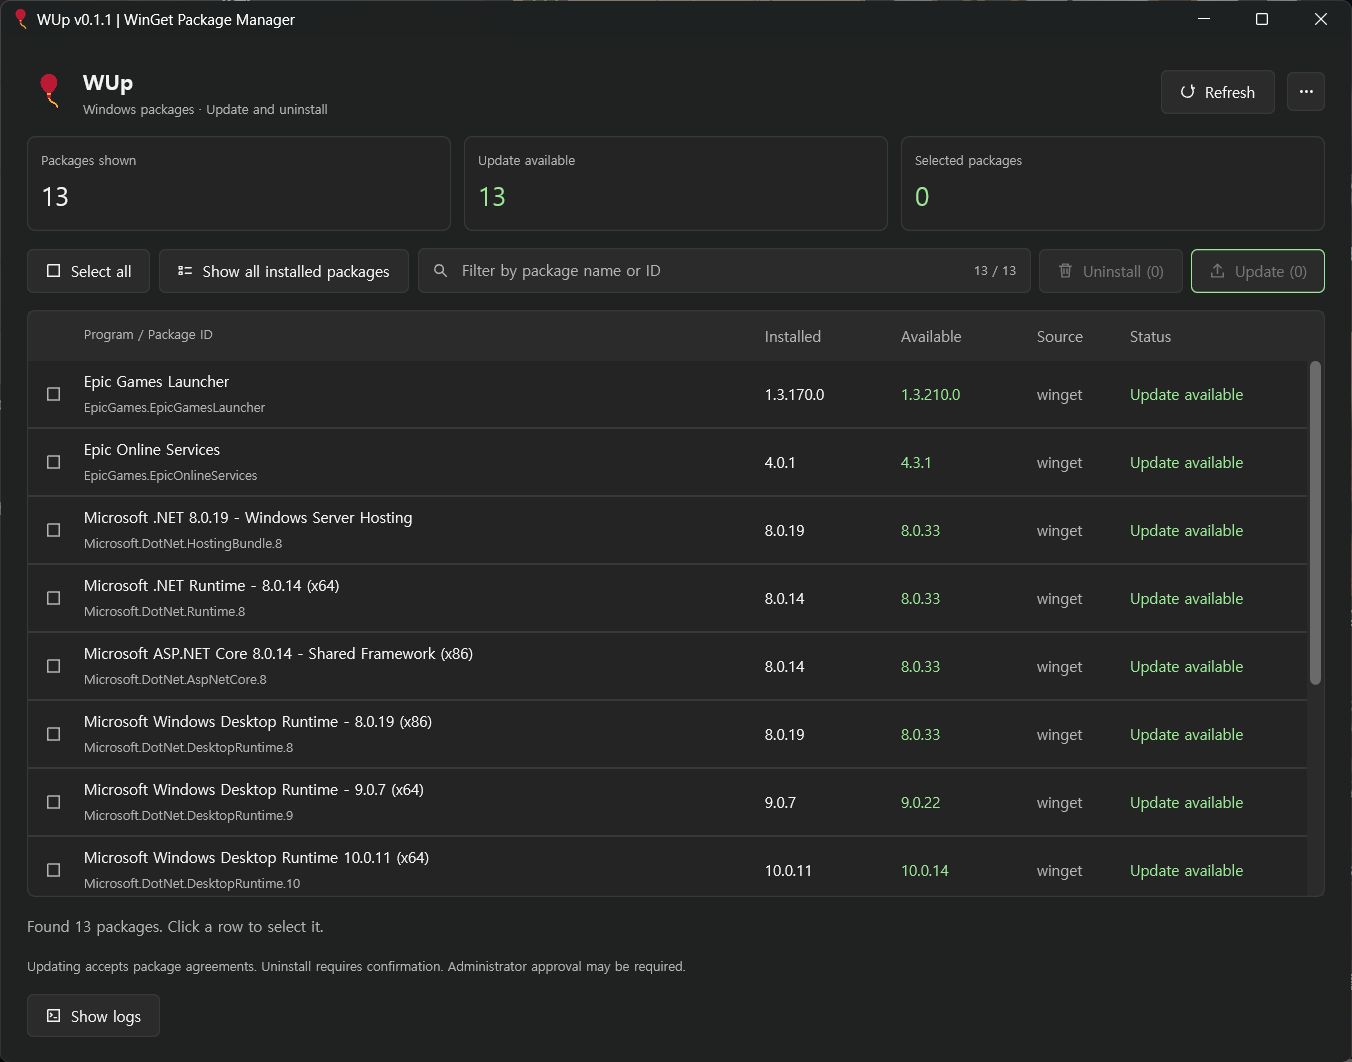
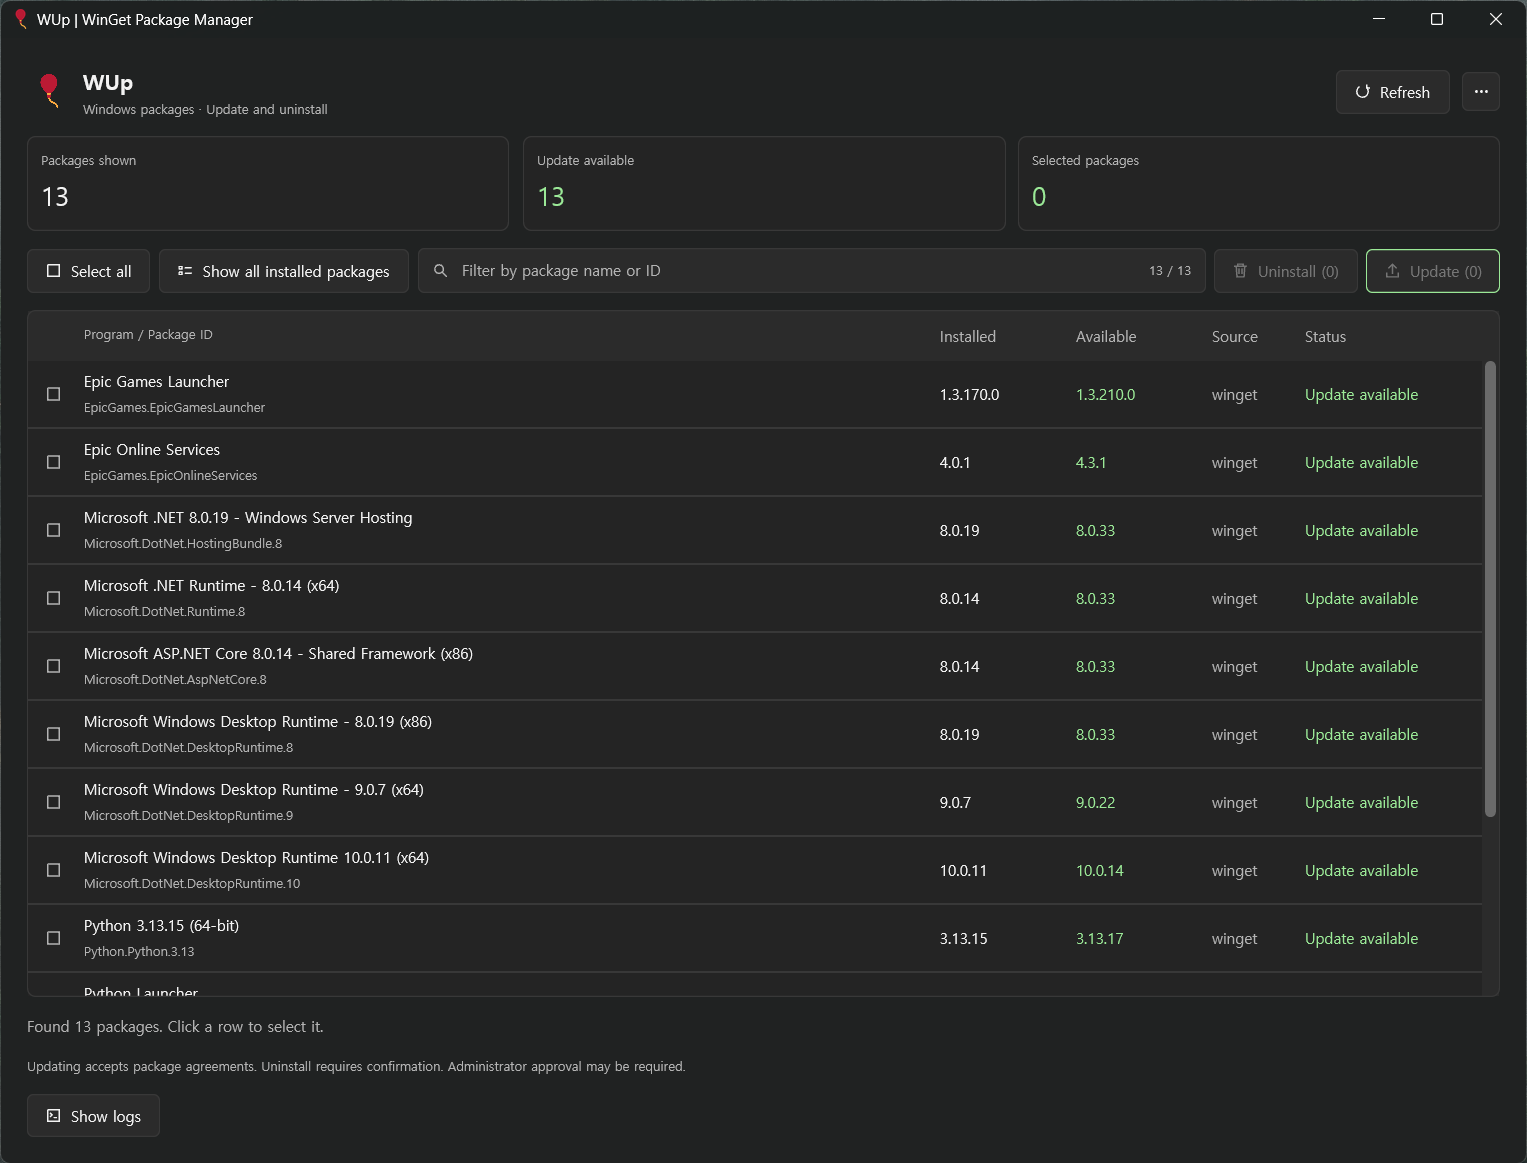
Add shared installer description and update README screenshot

diff --git a/README.md b/README.md
@@ -1,6 +1,6 @@
 # WUp
 
-Rust + GPUI로 만든 Windows용 WinGet 패키지 관리자입니다. 현재 수정본은 v0.1.1이며 창 제목은 `WUp | WinGet Package Manager`입니다.
+Rust + GPUI로 만든 Windows용 WinGet 패키지 관리자입니다.
 
 ![WUp package manager screenshot](docs/images/wup-screenshot.png)
 
@@ -231,16 +231,6 @@ powershell -NoProfile -ExecutionPolicy Bypass -File .\scripts\build.ps1 -Install
 
 For a local portable application only, omit `-Installer` (no .NET SDK required); this creates `dist/wup.exe` and does not overwrite the versioned EXE installer. `scripts/set-build-version.ps1 -BuildNumber N` is intended for a fresh CI checkout and modifies both Cargo files. Local builds otherwise retain the version in Cargo.toml. Commit source and configuration only; do not commit `target/`, `dist/`, or transfer helper directories.
 
-## About
-
-Open **... > About** (Korean: app information) for the application version and a brief description. The dialog follows the selected theme, language and UI scale. The compact layout shows inline green contact links and an orange Buy me a coffee button. Close it with the top-right X or by clicking the backdrop.
-
-- Developer email: [chanhwahong@gmail.com](mailto:chanhwahong@gmail.com)
-- GitHub: https://github.com/chanhwahong/wup
-- Buy me a coffee: https://ko-fi.com/chanhwahong
-
-Links open the default browser or mail application only when clicked.
-
 ## Application icon
 
 WUp uses a balloon emoji-style icon in its executable, window/taskbar, Start menu shortcut, installed-app entry, and header. The icon is embedded, so no external image files are required at runtime.
@@ -259,4 +249,4 @@ Type a package name or ID in the filter field on the same row as the selection a
 
 Select all / deselect all and update / uninstall actions apply to visible packages. Changing the filter deselects packages that become hidden, preventing hidden items from being changed by mistake. Refreshing or switching list modes keeps the filter. The field supports Korean IME composition, selection, keyboard navigation and Ctrl+A/C/V/X. Editing is paused while a package operation or confirmation/about dialog is active.
 
-The EXE setup welcome page displays **Windows packages Update and uninstall**.
+The EXE setup displays **Windows packages Update and uninstall** beneath the WUp heading on every page, including initial installation, repair, uninstall and progress.
